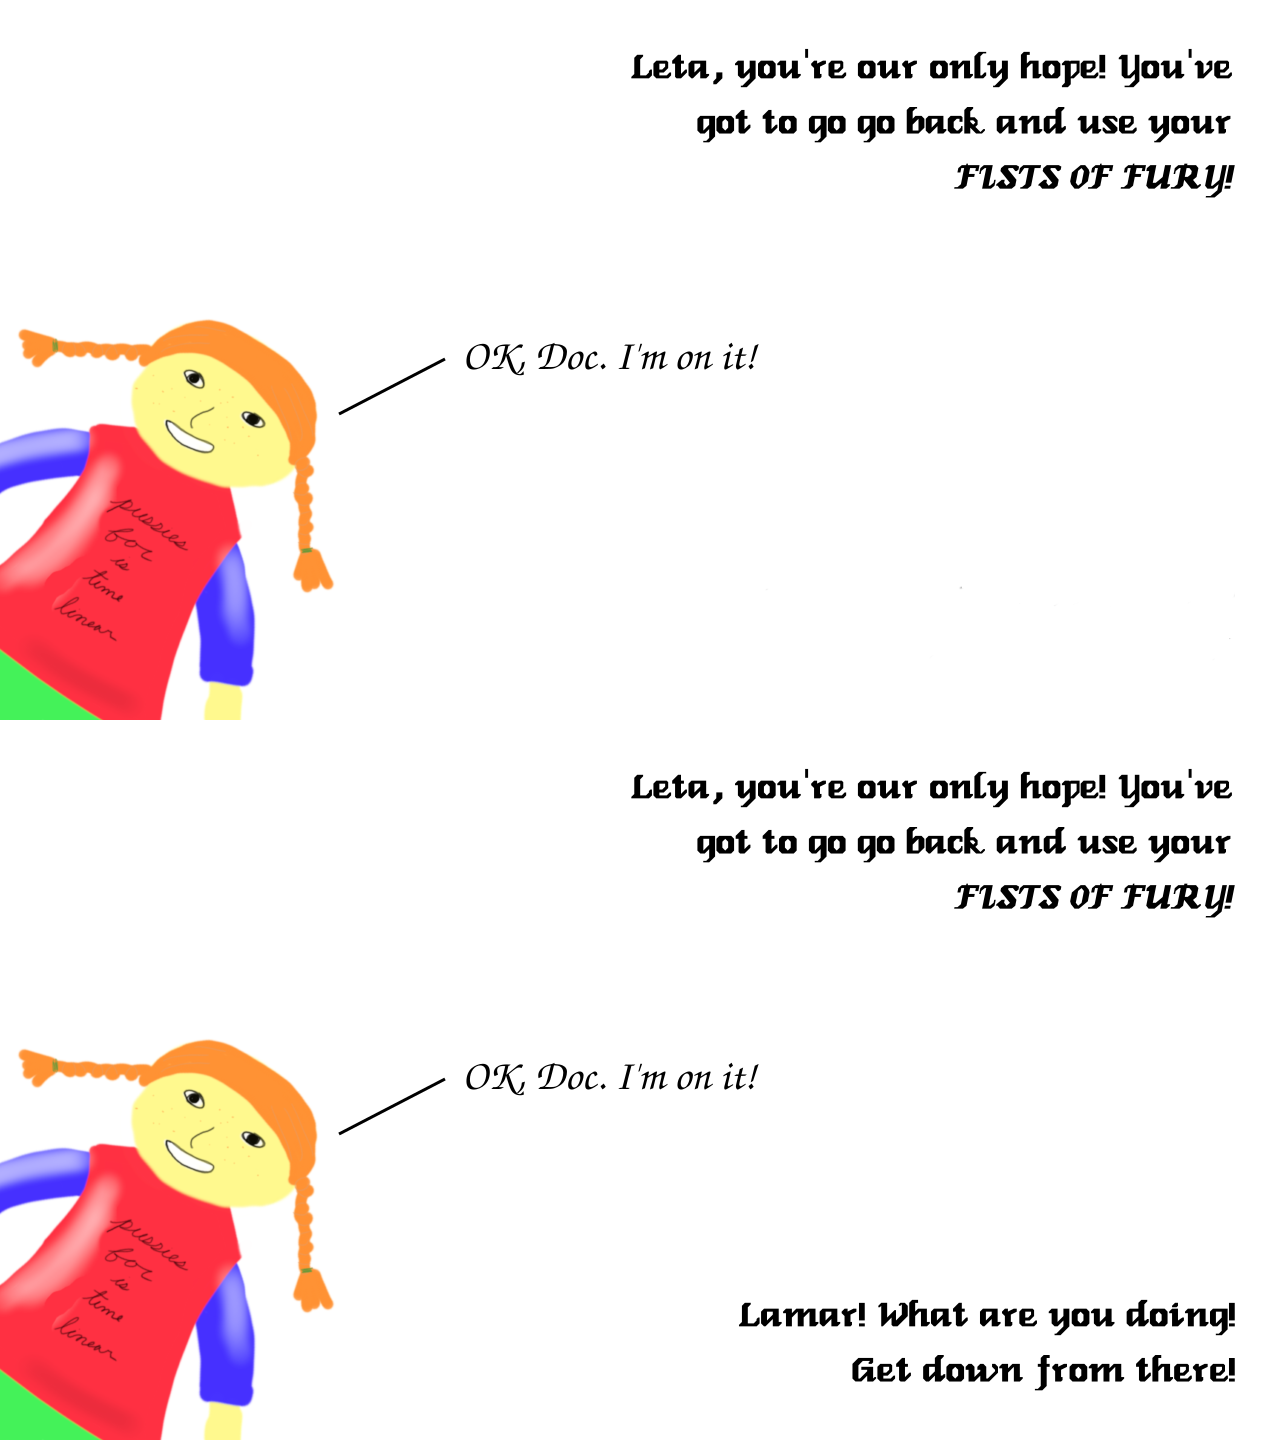
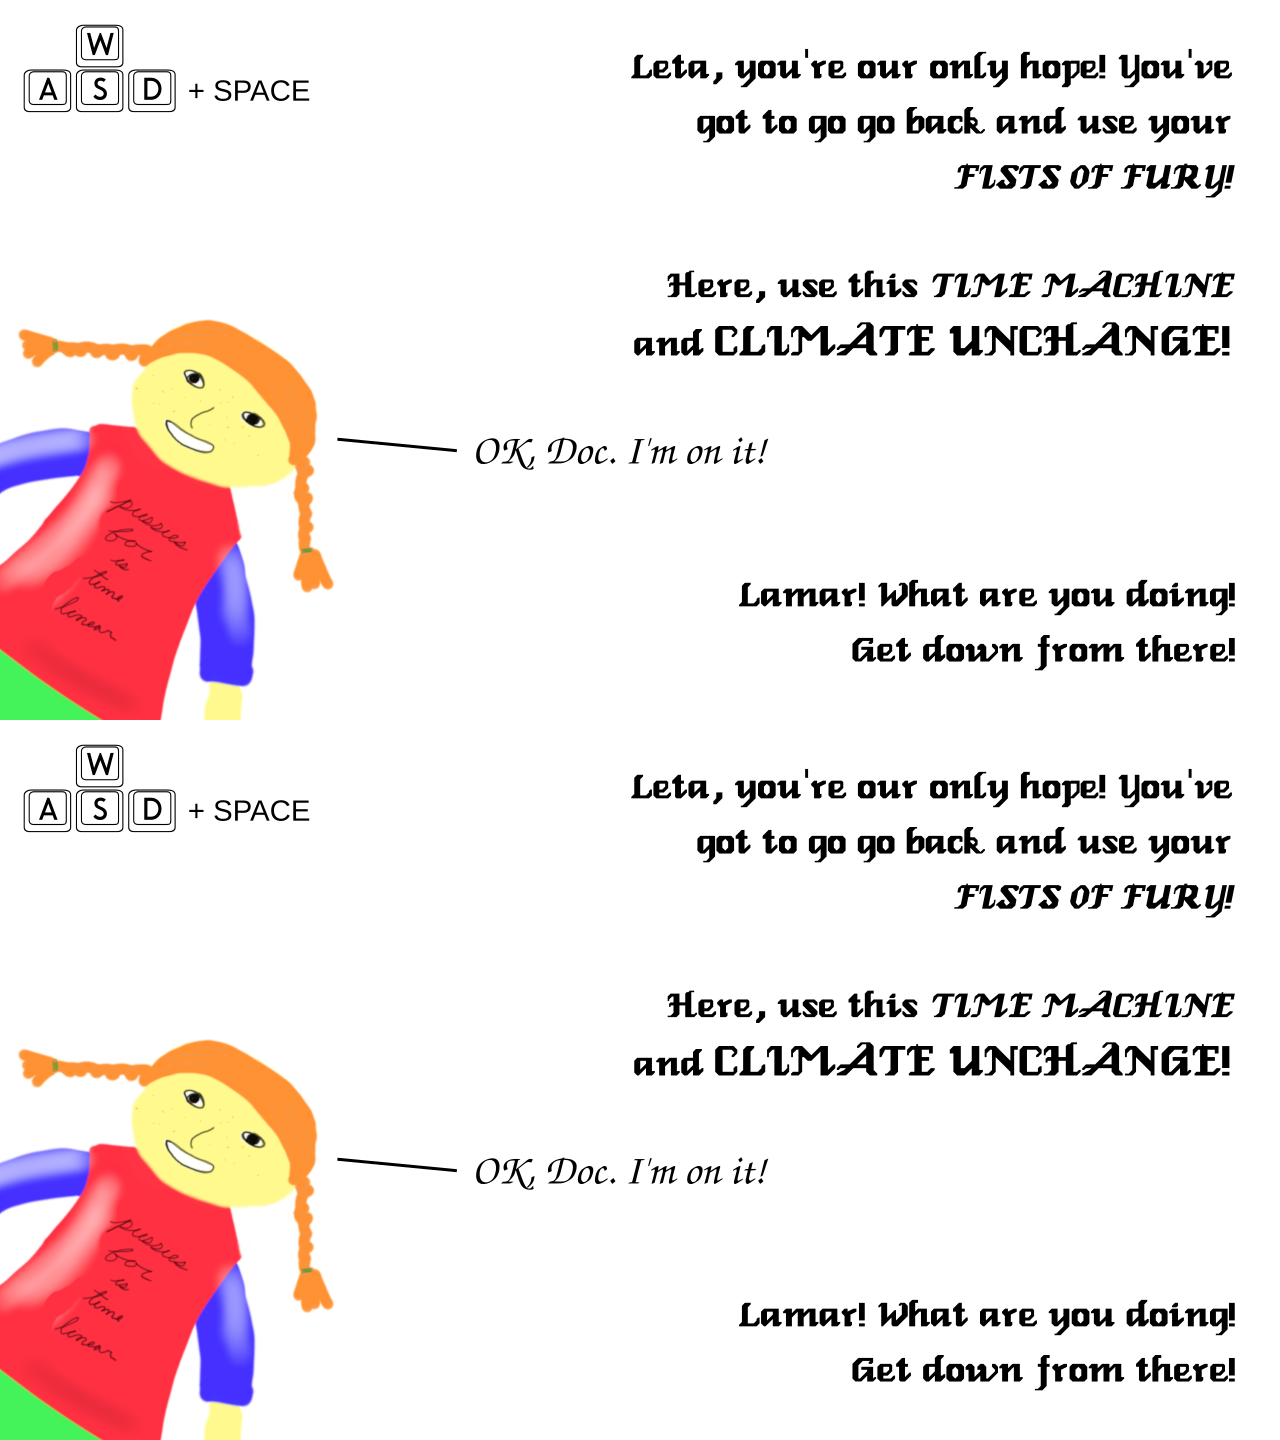
better title screen tming & some flavour text

diff --git a/ClimateUnchange.java b/ClimateUnchange.java
@@ -35,17 +35,17 @@ public class ClimateUnchange extends SimpleDisplay{
 		player = new Player(400,400, null);
 
 		// title level
-		GameEnvironment titleLevel = new GameEnvironment(0, 3000);
+		GameEnvironment titleLevel = new GameEnvironment(0, 8000);
 //		titleLevel.bgColor = new Color(0, 0, 0);
-		titleLevel.addWorldPlaneSprite(new Sprite(WIDTH/2, HEIGHT/2, "assets/titlescreen.png", 1, 2, (float)0.5));
+		titleLevel.addWorldPlaneSprite(new Sprite(WIDTH/2, HEIGHT/2, "assets/titlescreen.png", 1, 2, (float)0.2));
 
 
 		
 		// acidRain
 		GameEnvironment acidRain = new GameEnvironment(levelLength);
 		acidRain.bgColor = new Color(0, 200, 0);
+		acidRain.addWorldPlaneSprite(new KillableSprite(WIDTH/2,0,"assets/acidrainflavour1.png"));
 		acidRain.addWorldPlaneSprite(player);
-//		acidRain.addWorldPlaneSprite(new KillableSprite(200,200,"images/test2.png", 2, 1, 2));
 
 		// load acidRain sprites
 		BufferedImage[] rain = new BufferedImage[3];
